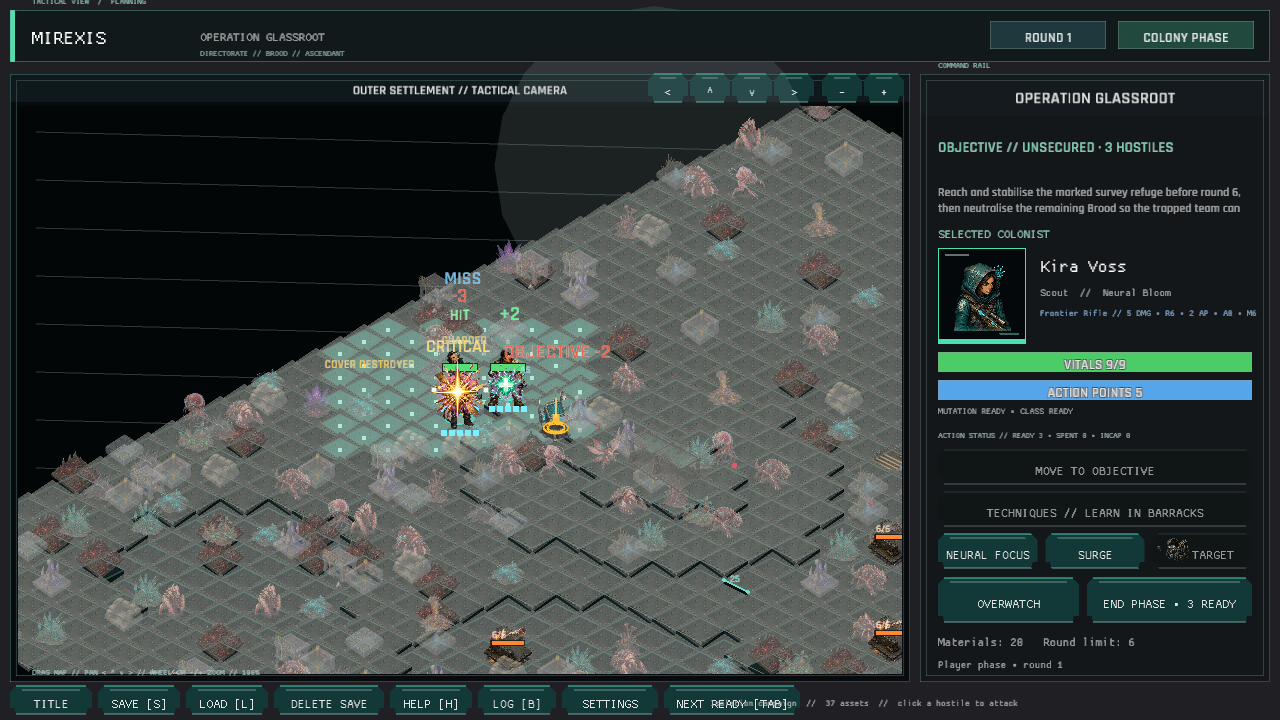
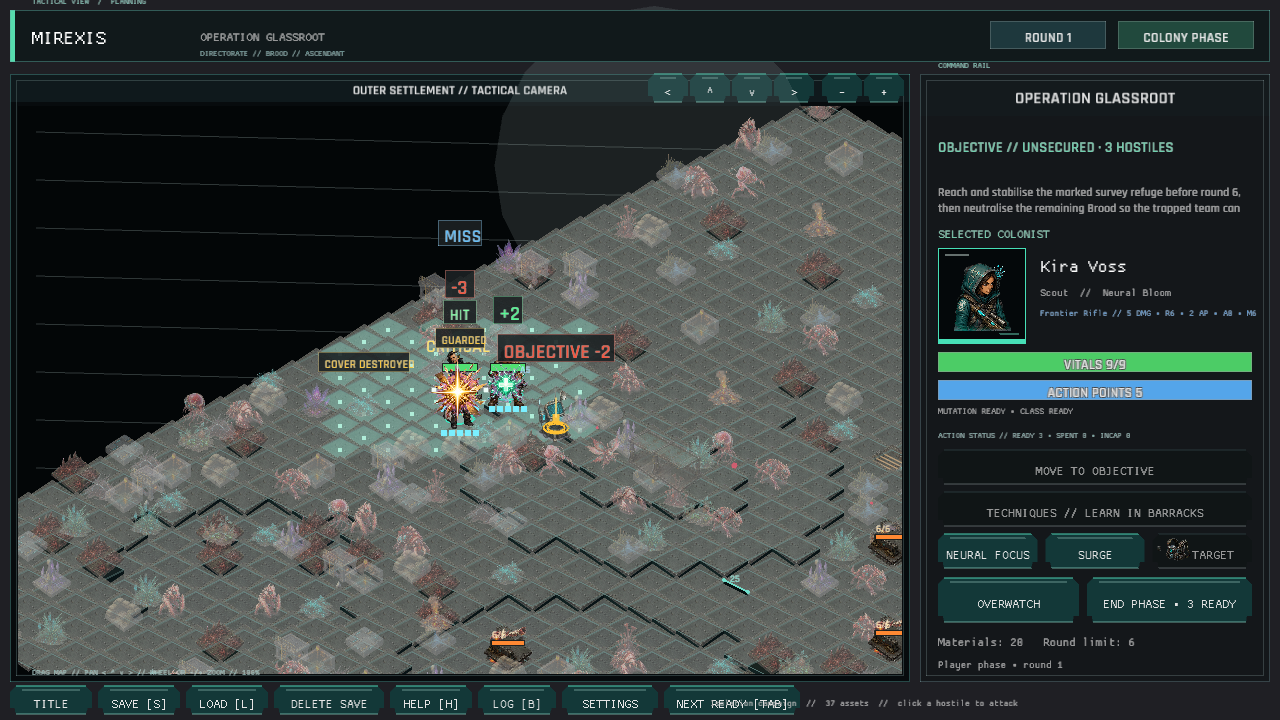
The battlefield gives every wound its own plate (combat feedback)
Nearby combat results still merged over the tactical field because callouts only stacked per identical anchor. Place each event in a bounded screen-space lane with a readable plate, refresh the combat-feedback reference, and record the 1.207.0 no-schema-change checkpoint.\n\nCo-Authored-By: OpenAI Codex <noreply@openai.com>

Changed region(s): [[0.3438, 0.3056, 0.5, 0.5194], [0.25, 0.4889, 0.3438, 0.5194]]

diff --git a/src/combat_feedback.rs b/src/combat_feedback.rs
@@ -9,7 +9,7 @@ use macroquad_toolkit::grid::TilePos;
 use macroquad_toolkit::prelude::TextStyle;
 
 const CALLOUT_BASE_OFFSET: f32 = 58.0;
-const CALLOUT_STACK_STEP: f32 = 18.0;
+const CALLOUT_STACK_STEP: f32 = 26.0;
 
 #[derive(Debug, Clone, Copy, PartialEq, Eq)]
 enum FeedbackTone {
@@ -256,6 +256,7 @@ impl CombatFeedback {
         for impact in &self.impacts {
             draw_impact(session, view, impact, assets, visuals);
         }
+        let mut occupied = Vec::new();
         for (index, callout) in self.callouts.iter().enumerate() {
             let Some(position) = feedback_anchor_position(session, &callout.anchor) else {
                 continue;
@@ -279,7 +280,9 @@ impl CombatFeedback {
                 _ => 20.0,
             };
             let dimensions = measure_text(&callout.label, None, size as u16, 1.0);
-            let y = callout_y(rect, same_unit_before);
+            let y = callout_baseline(rect, same_unit_before, dimensions.width, size, &occupied);
+            let bounds = callout_bounds(rect.center(), y, dimensions.width, size);
+            occupied.push(bounds);
             if callout.tone == FeedbackTone::Healing && same_unit_before == 0 {
                 visuals.draw_atlas_cell(
                     assets,
@@ -289,6 +292,21 @@ impl CombatFeedback {
                     Color::new(1.0, 1.0, 1.0, callout.remaining.min(1.0)),
                 );
             }
+            draw_rectangle(
+                bounds.x,
+                bounds.y,
+                bounds.w,
+                bounds.h,
+                Color::new(0.01, 0.035, 0.04, 0.90),
+            );
+            draw_rectangle_lines(
+                bounds.x,
+                bounds.y,
+                bounds.w,
+                bounds.h,
+                1.0,
+                Color::new(color.r, color.g, color.b, 0.62),
+            );
             draw_text_ex(
                 &callout.label,
                 rect.x + (rect.w - dimensions.width) * 0.5,
@@ -301,6 +319,43 @@ impl CombatFeedback {
 
 fn callout_y(rect: Rect, stack_index: usize) -> f32 {
     (rect.y - CALLOUT_BASE_OFFSET - stack_index as f32 * CALLOUT_STACK_STEP).max(24.0)
+}
+
+fn callout_baseline(
+    rect: Rect,
+    stack_index: usize,
+    label_width: f32,
+    label_height: f32,
+    occupied: &[Rect],
+) -> f32 {
+    let mut baseline = callout_y(rect, stack_index);
+    loop {
+        let bounds = callout_bounds(rect.center(), baseline, label_width, label_height);
+        if baseline <= 24.0
+            || !occupied
+                .iter()
+                .any(|other| rectangles_overlap(bounds, *other))
+        {
+            return baseline;
+        }
+        baseline = (baseline - CALLOUT_STACK_STEP).max(24.0);
+    }
+}
+
+fn callout_bounds(center: Vec2, baseline: f32, label_width: f32, label_height: f32) -> Rect {
+    Rect::new(
+        center.x - label_width * 0.5 - 6.0,
+        baseline - label_height - 4.0,
+        label_width + 12.0,
+        label_height + 8.0,
+    )
+}
+
+fn rectangles_overlap(left: Rect, right: Rect) -> bool {
+    left.x < right.right()
+        && left.right() > right.x
+        && left.y < right.bottom()
+        && left.bottom() > right.y
 }
 
 fn feedback_anchor_position(session: &GameSession, anchor: &FeedbackAnchor) -> Option<TilePos> {

diff --git a/src/combat_feedback/tests.rs b/src/combat_feedback/tests.rs
@@ -6,9 +6,20 @@ fn feedback_callouts_stack_clear_of_the_unit_effect_lane() {
     let rect = Rect::new(100.0, 200.0, 48.0, 48.0);
 
     assert_eq!(callout_y(rect, 0), 142.0);
-    assert_eq!(callout_y(rect, 1), 124.0);
+    assert_eq!(callout_y(rect, 1), 116.0);
     assert!(callout_y(rect, 0) < rect.y - 37.0);
     assert_eq!(callout_y(Rect::new(100.0, 50.0, 48.0, 48.0), 4), 24.0);
+}
+
+#[test]
+fn nearby_callouts_lift_until_their_readable_plates_are_separate() {
+    let rect = Rect::new(100.0, 160.0, 48.0, 48.0);
+    let occupied = [callout_bounds(vec2(124.0, 160.0), 102.0, 60.0, 18.0)];
+    let baseline = callout_baseline(rect, 0, 60.0, 18.0, &occupied);
+    let placed = callout_bounds(rect.center(), baseline, 60.0, 18.0);
+
+    assert_eq!(baseline, 76.0);
+    assert!(!rectangles_overlap(placed, occupied[0]));
 }
 
 #[test]

diff --git a/docs/verification/FINAL_CAPTURE_INVENTORY.md b/docs/verification/FINAL_CAPTURE_INVENTORY.md
@@ -37,7 +37,7 @@ Manifest: `scripts/capture_ui.ps1`
 - `ui_finale_debrief.png`: the completed-campaign title, bounded legacy summary, operation result, and reward card remain separated and readable.
 - `ui_redoubt_end.png`, `ui_commonwealth_end.png`, and `ui_threshold_end.png`: the identity ending card and bounded colony legacy register remain inside the open Operations drawer without the obsolete colony plan line colliding with the register.
 - `ui_gene_lab.png` and `ui_recruited_gene_lab.png`: the mutation anatomy scan label remains visible above the separated irreversible evolution cards.
-- `ui_combat_feedback.png`: hit, miss, critical, damage, recovery, objective, and cover callouts remain anchored to their affected field locations and stack clear of unit effects.
+- `ui_combat_feedback.png`: hit, miss, critical, damage, recovery, objective, and cover callouts remain anchored to their affected field locations in separate readable plates above unit effects.
 - `ui_construction.png`: placement blueprint and reserved resources remain visible at fixed building scale.
 
 ## Files
@@ -125,7 +125,7 @@ Manifest: `scripts/capture_ui.ps1`
[8 lines of base64/hex data omitted]

diff --git a/docs/verification/UI_GRAPHICS_ACCEPTANCE_MATRIX.md b/docs/verification/UI_GRAPHICS_ACCEPTANCE_MATRIX.md
@@ -143,7 +143,7 @@ Each row must have a post-overhaul PNG in the final capture directory and pass t
 | first_hour_promise | First-hour promise consequence | Second-operation consequence and the required CONTINUE CAMPAIGN control lack a guided focus cue | `ui_first_hour_promise.png` | PASS |
 | first_hour_operations | First-hour colony handoff | Operations drawer does not make the next briefing action obvious | `ui_first_hour_operations.png` | PASS |
 | battle_log | Battle log | Event rows expose internal identifiers such as `brood_stalker_a` instead of the display names used elsewhere in the UI | `ui_battle_log.png` | PASS |
-| combat_feedback | Tactical/feedback | Dense result labels can overlap unit and impact effects, hiding normal HIT feedback | `ui_combat_feedback.png` | PASS |
+| combat_feedback | Tactical/feedback | Dense result labels can overlap nearby event anchors and impact effects, hiding normal HIT feedback | `ui_combat_feedback.png` | PASS |
 | phase_replay | Tactical/replay | Replay beat names the attack outcome but omits the immediate damage or incapacitation consequence | `ui_phase_replay.png` | PASS |
 | end_phase_guard | Tactical/warning | Warning hierarchy is small | `ui_end_phase_guard.png` | PASS |
 | readiness_markers | Tactical/unit state | Tiny state markers | `ui_readiness_markers.png` | PASS |

diff --git a/TECHNICAL_DESIGN.md b/TECHNICAL_DESIGN.md
@@ -2,7 +2,7 @@
 
 Status: systems-rich tech demo; playable-game refinement in progress
 Current production target: cohesive first-hour playable build
-Save/content version: 1.206.0
+Save/content version: 1.207.0
 Target platforms: Windows and browser/WASM
 Runtime: Rust 2021, Macroquad, macroquad-toolkit
 
@@ -982,6 +982,7 @@ Migration coverage:
 | 1.204.0 | Briefing threat-intelligence rows now collapse repeated hostile roles and fit long intelligence copy inside the right briefing column; no new save fields |
 | 1.205.0 | Roster workshop equipment rows now fit the full equipment catalog inside the training panel above the footer; no new save fields |
 | 1.206.0 | Completed-campaign Operations drawers suppress the obsolete colony plan line so the seven-row legacy register keeps its own lower lane; no new save fields |
+| 1.207.0 | Tactical combat feedback now places nearby event callouts in separate readable plates above the battlefield effect lane; no new save fields |
 
 Every future schema bump must migrate the immediately previous version and add a
 fixture test. Validate saved content IDs before adding content removal or renaming.

diff --git a/docs/PHASE_1_HARDENING.md b/docs/PHASE_1_HARDENING.md
@@ -60,7 +60,8 @@ Status: automated and internal verification complete; external playtests pending
   debrief summary coverage, completed-campaign debrief voice coverage, bounded
   ending-register coverage, completed-campaign register-lane coverage,
   briefing pressure geometry coverage, bounded briefing-intelligence coverage,
-  and workshop equipment-panel geometry coverage.
+  workshop equipment-panel geometry coverage, and separated combat-feedback
+  callout coverage.
 - External asset-registry and Rust source-size gates pass.
 - `publish.ps1` passes without parameters for Windows and WebGL and deploys to preview.
 - The canonical set contains 100 audited 1280×720 scenes, including the first-hour

diff --git a/docs/PHASE_1_ACCEPTANCE_MATRIX.md b/docs/PHASE_1_ACCEPTANCE_MATRIX.md
@@ -1,7 +1,7 @@
 # Phase 1 Acceptance Matrix
 
 Status: implementation evidence audited; observed-session gates pending
-Audit baseline: save/content 1.206.0, validated and committed with this matrix
+Audit baseline: save/content 1.207.0, validated and committed with this matrix
 
 This matrix maps every Phase 1 workstream and definition-of-done requirement to
 authoritative evidence. `VERIFIED` means code, tests, captures, or an operator-run path
